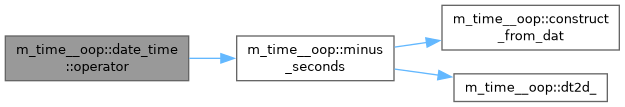
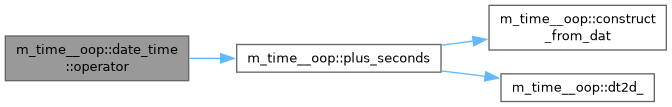
Deploy Doxygen docs

Changed region(s): [[0.0, 0.028, 1.0, 0.9813], [0.7904, 0.2804, 0.912, 0.4206], [0.0912, 0.5888, 0.2128, 0.7009]]

diff --git a/docs/doxygen_out/html/structm__time____oop_1_1date__time.html b/docs/doxygen_out/html/structm__time____oop_1_1date__time.html
@@ -947,12 +947,12 @@ Here is the call graph for this function:</div>
 <div class="center"><img src="structm__time____oop_1_1date__time_aade8064fa88b07e76b25983b94e58a3b_cgraph.png" border="0" usemap="#astructm__time____oop_1_1date__time_aade8064fa88b07e76b25983b94e58a3b_cgraph" alt=""/></div>
 <map name="astructm__time____oop_1_1date__time_aade8064fa88b07e76b25983b94e58a3b_cgraph" id="astructm__time____oop_1_1date__time_aade8064fa88b07e76b25983b94e58a3b_cgraph">
 <area shape="rect" title=" " alt="" coords="5,36,189,81"/>
-<area shape="rect" href="namespacem__time____oop.html#a52deaa5c6de2fe127e1270b4ee0e25db" title=" " alt="" coords="237,36,394,81"/>
+<area shape="rect" href="namespacem__time____oop.html#a4c0664b6b271f77da67b78823f7a69f3" title=" " alt="" coords="237,44,441,72"/>
 <area shape="poly" title=" " alt="" coords="189,56,221,56,221,61,189,61"/>
-<area shape="rect" href="namespacem__time____oop.html#a551abf70a64f1626271caca232bf0a13" title=" " alt="" coords="442,5,619,50"/>
-<area shape="poly" title=" " alt="" coords="394,44,426,40,427,45,395,50"/>
-<area shape="rect" href="namespacem__time____oop.html#ae2f6193eb354e704e7ac7875ae586373" title=" " alt="" coords="454,74,607,102"/>
-<area shape="poly" title=" " alt="" coords="395,66,439,72,438,78,394,72"/>
+<area shape="rect" href="namespacem__time____oop.html#a551abf70a64f1626271caca232bf0a13" title=" " alt="" coords="489,5,666,50"/>
+<area shape="poly" title=" " alt="" coords="441,43,473,38,474,44,442,48"/>
+<area shape="rect" href="namespacem__time____oop.html#ae2f6193eb354e704e7ac7875ae586373" title=" " alt="" coords="501,74,654,102"/>
+<area shape="poly" title=" " alt="" coords="442,68,486,74,485,79,441,74"/>
 </map>
 </div>
 

diff --git a/docs/doxygen_out/latex/structm__time____oop_1_1date__time.tex b/docs/doxygen_out/latex/structm__time____oop_1_1date__time.tex
@@ -201,7 +201,8 @@ generic m\+\_\+time\+\_\+\+\_\+oop\+::date\+\_\+time\+::operator (\begin{DoxyPar
 
 References \mbox{\hyperlink{namespacem__time____oop_ab0117f19b0f9db9a457af48d718f4265}{m\+\_\+time\+\_\+\+\_\+oop\+::eq()}}.
 
-Here is the call graph for this function\+:\nopagebreak
+Here is the call graph for this function\+:
+\nopagebreak
 \begin{figure}[H]
 \begin{center}
 \leavevmode
@@ -218,8 +219,7 @@ generic m\+\_\+time\+\_\+\+\_\+oop\+::date\+\_\+time\+::operator (\begin{DoxyPar
 
 References \mbox{\hyperlink{namespacem__time____oop_ae600988ac5cb6d71d24fc15539eef2e4}{m\+\_\+time\+\_\+\+\_\+oop\+::lt()}}.
 
-Here is the call graph for this function\+:
-\nopagebreak
+Here is the call graph for this function\+:\nopagebreak
 \begin{figure}[H]
 \begin{center}
 \leavevmode
@@ -326,7 +326,8 @@ generic m\+\_\+time\+\_\+\+\_\+oop\+::date\+\_\+time\+::operator (\begin{DoxyPar
 
 References \mbox{\hyperlink{namespacem__time____oop_a4c0664b6b271f77da67b78823f7a69f3}{m\+\_\+time\+\_\+\+\_\+oop\+::plus\+\_\+seconds()}}.
 
-Here is the call graph for this function\+:\nopagebreak
+Here is the call graph for this function\+:
+\nopagebreak
 \begin{figure}[H]
 \begin{center}
 \leavevmode
@@ -343,8 +344,7 @@ generic m\+\_\+time\+\_\+\+\_\+oop\+::date\+\_\+time\+::operator (\begin{DoxyPar
 
 References \mbox{\hyperlink{namespacem__time____oop_a52deaa5c6de2fe127e1270b4ee0e25db}{m\+\_\+time\+\_\+\+\_\+oop\+::minus\+\_\+seconds()}}.
 
-Here is the call graph for this function\+:
-\nopagebreak
+Here is the call graph for this function\+:\nopagebreak
 \begin{figure}[H]
 \begin{center}
 \leavevmode
